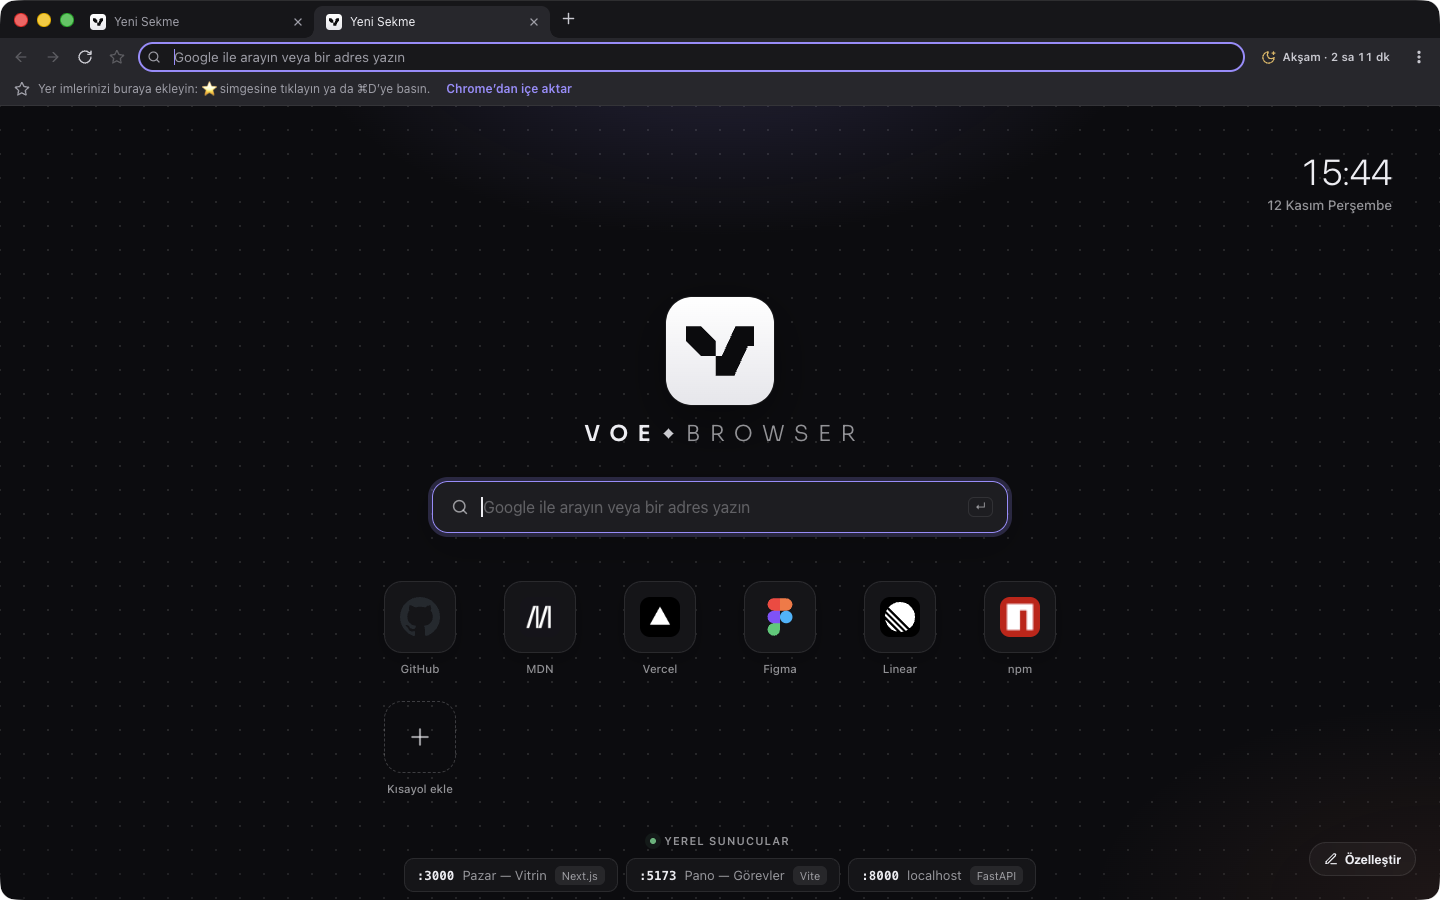
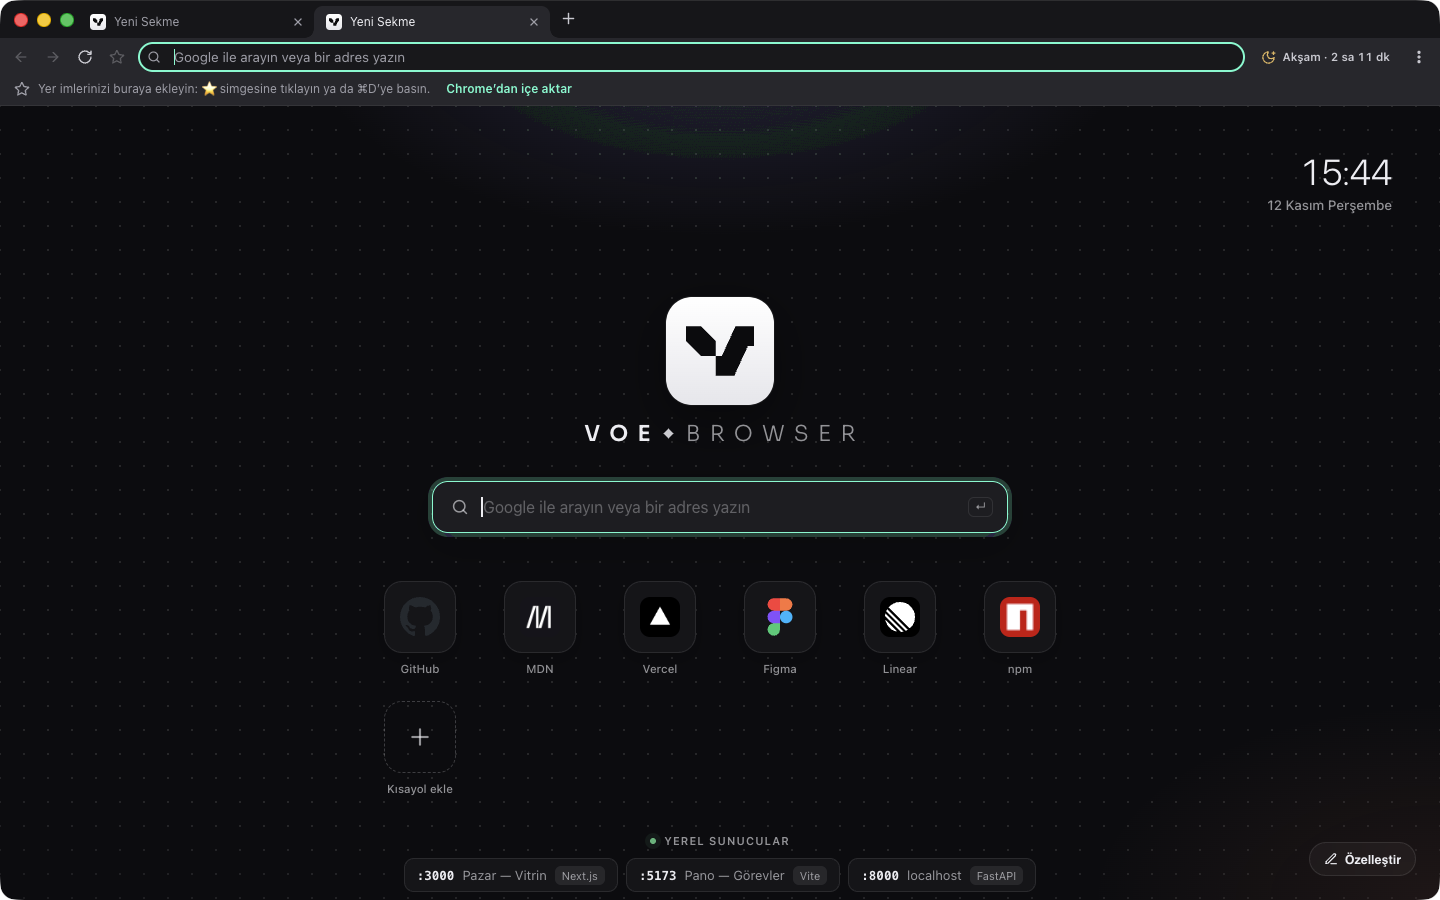
0.3.0: voe AI, yeşil tasarım, bildirimler, sürükle-bırak

Changed region(s): [[0.2812, 0.5289, 0.7188, 0.5911], [0.3125, 0.5911, 0.6875, 0.6222], [0.3125, 0.0933, 0.4062, 0.1244]]

diff --git a/README.en.md b/README.en.md
@@ -23,7 +23,7 @@
 
 <br>
 
-**voe** is a calm, fast, Chromium-based browser for macOS. It keeps everyday browsing quiet, and it puts the tools web developers reach for all day one click away inside the browser: device emulation, console errors, local dev servers, a JSON viewer and an offline toolbox. The **voe Shield** ad and tracker blocker is always on. The interface is in Turkish.
+**voe** is a calm, fast, Chromium-based browser for macOS. It keeps everyday browsing quiet, and it puts the tools web developers reach for all day one click away inside the browser: device emulation, console errors, local dev servers, a JSON viewer and an offline toolbox. The **voe Shield** ad and tracker blocker is always on. If you want, **voe AI** translates, summarizes and chats entirely on your Mac. The interface is in Turkish.
 
 <p align="center">
   <img src=".github/assets/screen-newtab.png" alt="voe new tab: dotted grid, logo and search in the middle, shortcuts and running local servers" width="100%">
@@ -86,6 +86,20 @@ Bookmarks (with folders), passwords, history, open tabs, the reading list and se
 
 Every record is encrypted on the device with **AES-256-GCM**. The server only sees meaningless encrypted blobs and can’t read URLs, titles or passwords. The key exists only on your devices. **Reset sync** cuts off a lost device in one step.
 
+## voe AI: AI that runs on this Mac
+
+<p align="center">
+  <img src=".github/assets/ai-panel.png" alt="A news page in voe; the voe AI side panel shows “Summarize this page” and a summary generated on the Mac" width="100%">
+</p>
+
+voe AI is **optional**. Nothing is downloaded unless you install it. You can install it from the voe AI card on the new tab or the ✦ button in the toolbar.
+
+- **Side panel** (`⌥⌘A` or ✦): chat, ask it to **summarize this page**, then ask follow-up questions about the page. The text tools translate, summarize, explain and fix spelling.
+- **Selected text** → right-click → **voe AI**: translate into Turkish or English, summarize, explain, fix spelling. The result streams next to the selection. In editable fields, **Yerine yaz** (Replace) swaps the text in one click.
+- **Entirely on device.** The model and engine ([WebLLM](https://github.com/mlc-ai/web-llm)) run on your Mac’s GPU (WebGPU). What you type, the answers and page text never go to a server and are not saved. Only the model files download, once, from the MLC repository on Hugging Face. After that it works offline. The engine shuts down after 5 idle minutes and frees its memory.
+- **Models:** Qwen3 4B (recommended, 2.3 GB, ~3.4 GB memory while running) or Gemma 2 2B (light, 1.5 GB). Switch or remove them from the panel’s Model section.
+- Needs Apple Silicon and about 4 GB of free disk. Small models can be wrong, so double-check anything important. It has no internet access and doesn’t know current events.
+
 ## For every day
 
 | | |
@@ -103,7 +117,9 @@ Every record is encrypted on the device with **AES-256-GCM**. The server only se
 | **Speed meter** | Page load time in the address bar, with a DNS-to-download breakdown |
 | **New tab cards** | Markets, multi-city weather, news (RSS), recent earthquakes, prayer times, world clocks, calendar, countdown, notes, to-dos, reading list and site links; drag to reorder |
 | **Import from another browser** | Bookmarks, passwords, saved cards, addresses and history from Chrome, Edge, Brave, Vivaldi, Opera and Chromium in one step — everything stays on your device |
-| **Vakit** | Time left until the next prayer, Hijri date and a tasbih counter (computed on device) |
+| **Vakit** | Next prayer time, Hijri date and a tasbih counter (computed on device). The button is dynamic: the countdown starts an hour before. Can be turned off in Settings |
+| **Web notifications** | Sites ask for permission and your choice is remembered; clicking a notification brings its tab forward |
+| **Downloads** | Drag a finished file from the list to Finder, the desktop or a website |
 
 ## voe mobile
 
@@ -147,13 +163,14 @@ Coming from 0.2.10 or earlier, install the `.dmg` once by hand. Automatic downlo
 | `⇧⌘F` | Focus mode | `⌥⌘U` | View source |
 | `⌥⌘R` | Reader mode | `⇧⌘R` | Reload ignoring cache |
 | `⇧⌘D` | Add to reading list | `⇧⌘2` / `⌥⇧⌘2` | Screenshot / full page |
+| `⌥⌘A` | voe AI panel | | |
 
 ## Data and telemetry
 
 - No telemetry: no usage statistics, crash reports or advertising IDs.
 - Your data stays on your devices. With sync on, only end-to-end encrypted records reach the server.
-- The local-server scan, Toolbox, JSON viewer and QR codes run entirely on your device.
-- voe makes only three connections on its own: Shield filter-list updates, site icons for bookmarks, and the update check. The update check goes to GitHub, carries only the version and can be turned off. When a new version exists, its package also downloads from GitHub.
+- The local-server scan, Toolbox, JSON viewer, QR codes and voe AI run entirely on your device.
+- voe makes only three connections on its own: Shield filter-list updates, site icons for bookmarks, and the update check. The update check goes to GitHub, carries only the version and can be turned off. When a new version exists, its package also downloads from GitHub. If you install voe AI, the model files download once from Hugging Face; nothing you type is sent anywhere.
 
 ## Feedback
 
@@ -161,6 +178,6 @@ Found a bug or have an idea? [Open an issue](https://github.com/dev-cagri/voe/is
 
 ## License
 
-voe is free; its source code is not public. See [LICENSE](LICENSE) for details. voe builds on open-source projects, each under its own license: [Electron](https://www.electronjs.org/) and Chromium (MIT/BSD), [Ghostery adblocker](https://github.com/ghostery/adblocker) (MPL-2.0), [Mozilla Readability](https://github.com/mozilla/readability) (Apache-2.0), [electron-chrome-extensions](https://github.com/samuelmaddock/electron-browser-shell) (MIT), [adhan-js](https://github.com/batoulapps/adhan-js) (MIT), [qrcode-generator](https://github.com/kazuhikoarase/qrcode-generator) (MIT) and [Sora](https://github.com/sora-xor/sora-font) (OFL-1.1).
+voe is free; its source code is not public. See [LICENSE](LICENSE) for details. voe builds on open-source projects, each under its own license: [Electron](https://www.electronjs.org/) and Chromium (MIT/BSD), [Ghostery adblocker](https://github.com/ghostery/adblocker) (MPL-2.0), [Mozilla Readability](https://github.com/mozilla/readability) (Apache-2.0), [electron-chrome-extensions](https://github.com/samuelmaddock/electron-browser-shell) (MIT), [adhan-js](https://github.com/batoulapps/adhan-js) (MIT), [qrcode-generator](https://github.com/kazuhikoarase/qrcode-generator) (MIT), [WebLLM](https://github.com/mlc-ai/web-llm) (Apache-2.0) and [Sora](https://github.com/sora-xor/sora-font) (OFL-1.1). voe AI models are downloaded separately: [Qwen3](https://huggingface.co/Qwen/Qwen3-4B) (Apache-2.0), [Gemma 2](https://ai.google.dev/gemma/terms) (Gemma Terms of Use).
 
 <p align="center"><sub>© 2026 voe</sub></p>

diff --git a/CHANGELOG.md b/CHANGELOG.md
@@ -1,5 +1,16 @@
 # Sürüm notları
 
+## 0.3.0
+
+- **voe AI, bu Mac’te çalışan yapay zekâ (isteğe bağlı):** çeviri, özet, açıklama, yazım düzeltme ve sohbet. Model Mac’in GPU’sunda çalışır; yazdıkların hiçbir yere gönderilmez. Kurmadığın sürece hiçbir şey inmez. Yeni sekmedeki karttan ya da ✦ düğmesinden Qwen3 4B (önerilen, 2,3 GB) veya Gemma 2 2B (hafif, 1,5 GB) kurulur.
+- **Sağdan açılan voe AI paneli** (✦ düğmesi ya da `⌥⌘A`): sohbet, “Bu sayfayı özetle” ve ardından sayfa hakkında sorular, metin araçları, model ayarları.
+- **Seçili metinde sağ tık → voe AI:** Türkçeye/İngilizceye çevir, özetle, açıkla, yazımı düzelt. Sonuç seçimin yanında akar; düzenlenebilir alanlarda “Yerine yaz”.
+- **Yeni renk:** voe’nun tasarım dili artık siyaha yakışan yeşil.
+- **Adres çubuğunda seçim** artık açıkça görünüyor.
+- **Araç çubuğu:** voe AI düğmesi eklendi. Vakit düğmesi dinamik: uzaktayken yalnızca ikon, son bir saatte geri sayım, vakit girince vurgulu. İkisi de Ayarlar → Araç çubuğu’ndan kapatılabilir.
+- **Web bildirimleri çalışıyor:** siteler izin isteyebiliyor (önceden “açılamadı” diyordu), kararın hatırlanıyor, bildirime tıklayınca sekmesi öne geliyor. Sekme kapalıyken gelen (push) bildirimler henüz desteklenmiyor.
+- **İndirilenlerden sürükle-bırak:** bitmiş dosyayı listeden Finder’a, masaüstüne ya da bir siteye sürükle.
+
 ## 0.2.11
 
 - **Otomatik güncelleme:** Yeni sürüm artık arka planda iniyor. Paket GitHub’ın verdiği SHA-256 özetiyle, ardından macOS güncelleyicisinde geliştirici imzasıyla doğrulanıyor. voe’yu yeniden başlattığında (ya da kapatıp açtığında) kuruluyor, açık sekmelerin geri geliyor. .dmg indirip sürüklemeye gerek kalmadı.
